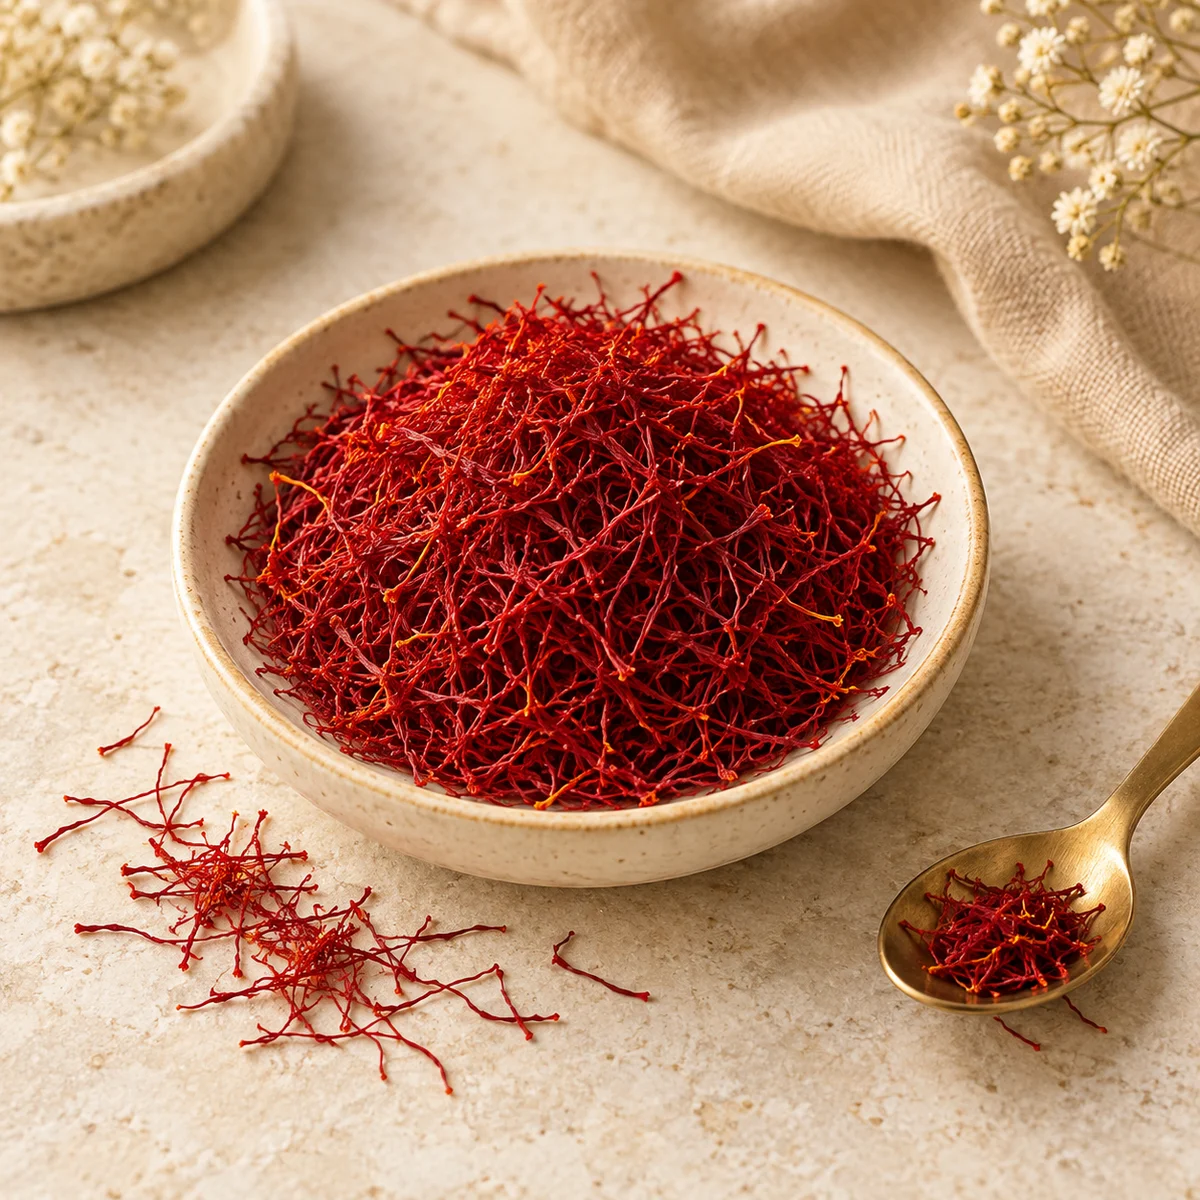
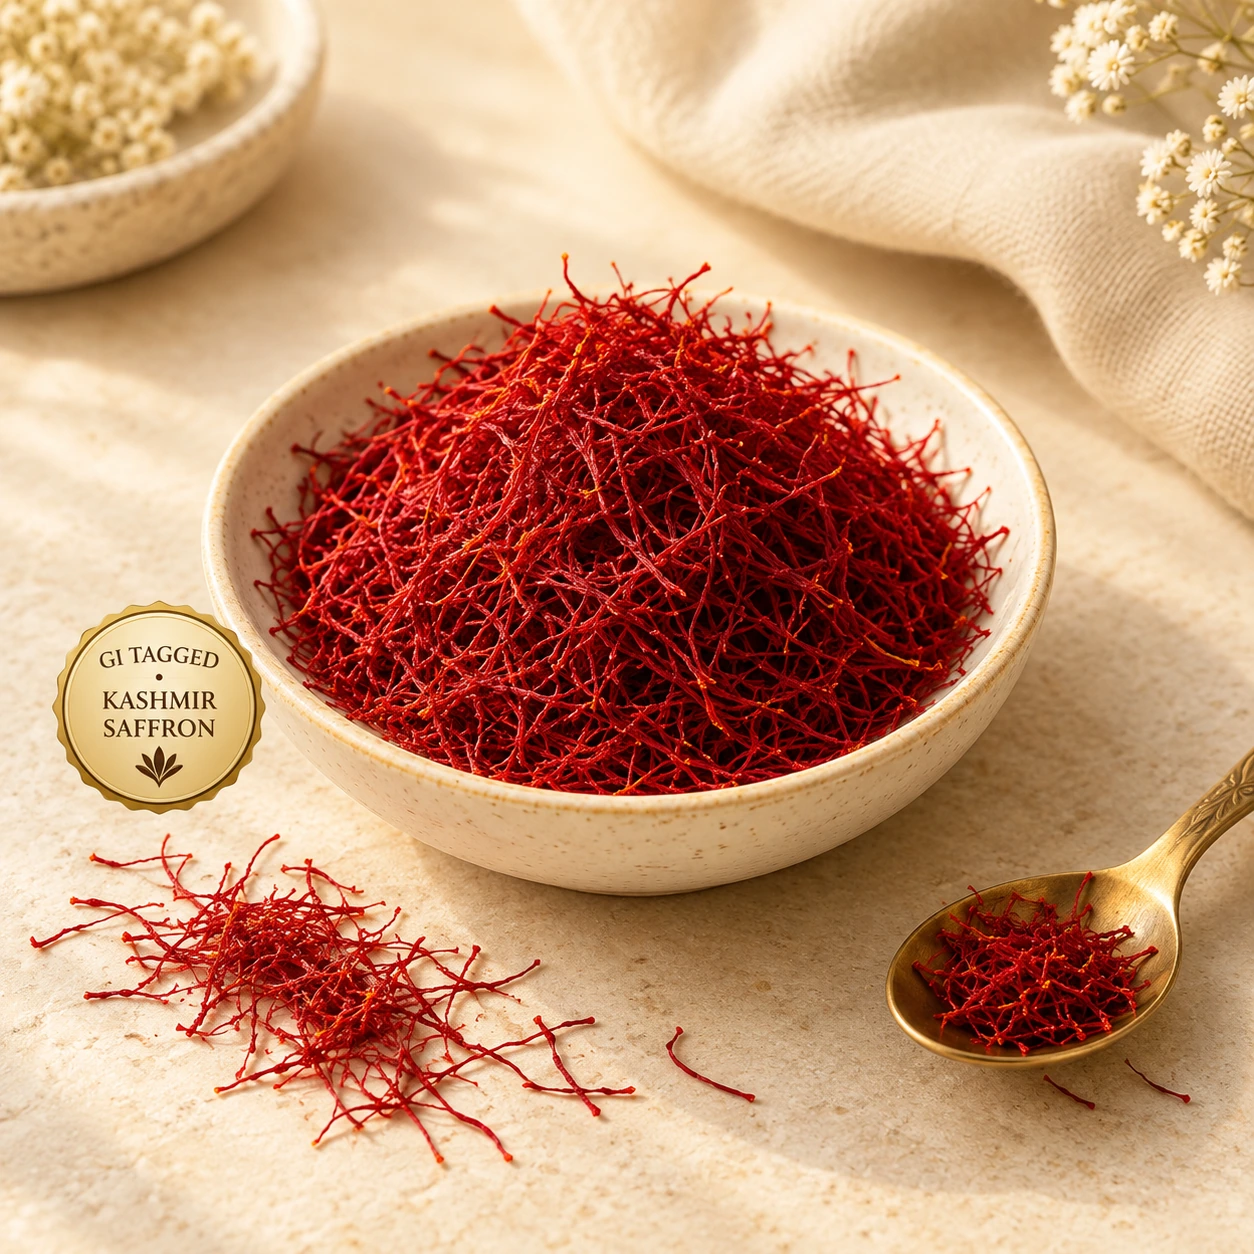
Live product search, product card highlights and footer link fixes
- Header search runs as you type (debounced), scrolls to the results and
  resets when the box is emptied; the search icon now submits.
- Product cards show the first certification when there is no "100%" claim,
  so every product gets a one-line promise; acacia honey's strongest claim
  moved first.
- Drop the "Direct Farmer Sourcing" trust point; the trust grid sizes its
  columns to the number of points.
- Footer: replace dead links with Quality Promise, Gift Hampers and a contact
  link for bulk gifting.
- New saffron and buffalo ghee product images.

diff --git a/frontend/src/components/layout/Header.tsx b/frontend/src/components/layout/Header.tsx
@@ -1,8 +1,8 @@
 "use client";
 
 import Link from "next/link";
-import { useRouter } from "next/navigation";
-import { useState, type FormEvent } from "react";
+import { usePathname, useRouter } from "next/navigation";
+import { useEffect, useState, type FormEvent } from "react";
 import {
   ChevronDown,
   Heart,
@@ -37,6 +37,7 @@ const NAV_LINKS = [
 export function Header() {
   const dispatch = useAppDispatch();
   const router = useRouter();
+  const pathname = usePathname();
   const cartCount = useAppSelector(selectCartCount);
   const wishlistCount = useAppSelector(selectWishlistCount);
   const deliveryPincode = useAppSelector(selectDeliveryPincode);
@@ -45,17 +46,50 @@ export function Header() {
   const activeSearch = useAppSelector(selectFilters).search;
   const [searchValue, setSearchValue] = useState(activeSearch);
   const [syncedSearch, setSyncedSearch] = useState(activeSearch);
-  // Mirror searches changed elsewhere (e.g. "Clear search" on the home grid) into the input.
+  // Mirror searches changed elsewhere (e.g. "Clear search" on the home grid) into the input. Skipped
+  // when the input already matches, so the live search below never eats a space mid-typing.
   if (activeSearch !== syncedSearch) {
     setSyncedSearch(activeSearch);
-    setSearchValue(activeSearch);
+    if (searchValue.trim() !== activeSearch) setSearchValue(activeSearch);
   }
   const [isMenuOpen, setMenuOpen] = useState(false);
 
-  const handleSearch = (event: FormEvent) => {
+  // Bring the results grid into view. Already on home: scroll there (a same-hash push wouldn't), unless
+  // the grid is already on screen, so typing doesn't keep yanking the page. From any other page, go home;
+  // AllProducts scrolls itself once it mounts (see its effect).
+  const showResults = (force: boolean) => {
+    if (pathname !== "/") {
+      router.push("/#products");
+      return;
+    }
+    const section = document.getElementById("products");
+    if (!section) return;
+    const { top, bottom } = section.getBoundingClientRect();
+    if (force || top > window.innerHeight * 0.5 || bottom < 0) section.scrollIntoView({ behavior: "smooth", block: "start" });
+  };
+
+  // Live search: run the query once typing pauses. Emptying the box (backspace or the input's own
+  // clear button) brings the full collection back.
+  useEffect(() => {
+    const query = searchValue.trim();
+    if (query === activeSearch) return;
+    const timer = setTimeout(() => {
+      dispatch(setSearch(query));
+      if (query) showResults(false);
+    }, 300);
+    return () => clearTimeout(timer);
+    // showResults only reads the current route; re-running on it would re-fire the search after navigating.
+    // eslint-disable-next-line react-hooks/exhaustive-deps
+  }, [searchValue, activeSearch, dispatch]);
+
+  // Enter or the search icon: search right away and close the on-screen keyboard so results aren't hidden.
+  const handleSearch = (event: FormEvent<HTMLFormElement>) => {
     event.preventDefault();
-    dispatch(setSearch(searchValue.trim()));
-    router.push("/#products");
+    const query = searchValue.trim();
+    if (!query) return;
+    dispatch(setSearch(query));
+    (event.currentTarget.querySelector("input") as HTMLInputElement | null)?.blur();
+    showResults(true);
   };
 
   return (
@@ -109,7 +143,9 @@ export function Header() {
         <Container className="pb-3">
           <form onSubmit={handleSearch}>
             <div className="flex items-center gap-2 rounded-xl bg-white px-4 py-2.5 shadow-sm">
-              <Search size={16} className="shrink-0 text-brand-ink/40" aria-hidden="true" />
+              <button type="submit" aria-label="Search" className="shrink-0 text-brand-ink/40 hover:text-brand-forest cursor-pointer">
+                <Search size={16} aria-hidden="true" />
+              </button>
               <input
                 type="search"
                 value={searchValue}
@@ -244,7 +280,9 @@ export function Header() {
             <div className="flex min-w-0 items-center justify-end gap-2 xl:gap-4">
               <form onSubmit={handleSearch} className="min-w-0 max-w-sm flex-1">
                 <div className="flex items-center gap-2 rounded-md border border-brand-sand-dark bg-brand-sand px-4 py-2">
-                  <Search size={16} className="shrink-0 text-brand-ink/50" aria-hidden="true" />
+                  <button type="submit" aria-label="Search" className="shrink-0 text-brand-ink/50 hover:text-brand-forest cursor-pointer">
+                    <Search size={16} aria-hidden="true" />
+                  </button>
                   <input
                     type="search"
                     value={searchValue}

diff --git a/frontend/src/components/home/AllProducts.tsx b/frontend/src/components/home/AllProducts.tsx
@@ -1,5 +1,6 @@
 "use client";
 
+import { useEffect, useRef } from "react";
 import { X } from "lucide-react";
 import type { Product } from "@/types/product";
 import { useAppDispatch, useAppSelector } from "@/lib/redux/hooks";
@@ -26,8 +27,19 @@ export function AllProducts({ products }: { products: Product[] }) {
   );
   const results = isSearching ? data?.items : products;
 
+  // A search submitted from another page lands on "/#products", but this section mounts only after
+  // the home data loads, so the browser's own hash jump misses it. Scroll here once it exists.
+  const sectionRef = useRef<HTMLElement>(null);
+  useEffect(() => {
+    if (search && window.location.hash === "#products") {
+      sectionRef.current?.scrollIntoView({ behavior: "smooth", block: "start" });
+    }
+    // Only on mount: searches made while this section is on screen are scrolled by the header.
+    // eslint-disable-next-line react-hooks/exhaustive-deps
+  }, []);
+
   return (
-    <section id="products" tabIndex={-1} className="scroll-mt-52 py-10 sm:py-16">
+    <section ref={sectionRef} id="products" tabIndex={-1} className="scroll-mt-52 py-10 sm:py-16">
       <Container>
         {isSearching ? (
           <div className="flex flex-wrap items-end justify-between gap-3">

diff --git a/frontend/src/components/home/TrustSection.tsx b/frontend/src/components/home/TrustSection.tsx
@@ -8,11 +8,15 @@ export function TrustSection({ points }: { points: HomeHighlight[] }) {
     <section id="quality" className="scroll-mt-52 py-12 sm:py-20">
       <Container>
         <SectionHeading eyebrow="Why Suvarna7" title="Goodness begins at the source." />
-        <div className="mt-10 grid grid-cols-1 gap-8 sm:grid-cols-2 lg:grid-cols-4">
+        <div
+          className={`mt-10 grid grid-cols-1 gap-8 md:gap-10 ${
+            points.length % 3 === 0 ? "md:grid-cols-3" : points.length >= 4 ? "sm:grid-cols-2 lg:grid-cols-4" : "sm:grid-cols-2"
+          }`}
+        >
           {points.map(({ title, description }, index) => (
             <div key={title} className="border-t border-brand-walnut/40 pt-5">
               <span className="text-xs text-brand-walnut-dark">0{index + 1}</span>
-              <h3 className="mt-5 font-serif text-xl text-brand-forest">{title}</h3>
+              <h3 className="mt-3 font-serif text-xl sm:text-2xl text-brand-forest">{title}</h3>
               {description && <p className="mt-3 text-sm leading-relaxed text-brand-ink/60">{description}</p>}
             </div>
           ))}

diff --git a/frontend/src/components/product/ProductCard.tsx b/frontend/src/components/product/ProductCard.tsx
@@ -45,7 +45,9 @@ export function ProductCard({ product }: { product: Product }) {
 
   const toggleHeart = () => dispatch(toggleWishlist(product.slug));
 
-  const purityLabel = product.certifications.find((cert) => cert.label.startsWith("100%"))?.label;
+  // One-line promise under the name: a "100% …" purity claim when the product has one, otherwise its
+  // first certification (admins order these so the strongest claim comes first).
+  const purityLabel = (product.certifications.find((cert) => cert.label.startsWith("100%")) ?? product.certifications[0])?.label;
 
   return (
     <div className="product-card flex flex-col overflow-hidden rounded-md border border-brand-sand-dark bg-white">

diff --git a/frontend/src/components/layout/Footer.tsx b/frontend/src/components/layout/Footer.tsx
@@ -30,9 +30,10 @@ const FOOTER_COLUMNS = [
     title: "Suvarna7",
     links: [
       { href: "/our-story", label: "Our Story" },
-      { href: "/", label: "Farm Partners" },
-      { href: "/", label: "Quality Promise" },
-      { href: "/", label: "Bulk & Corporate Gifting" },
+      { href: "/#quality", label: "Quality Promise" },
+      { href: "/#hampers", label: "Gift Hampers" },
+      // The contact page's WhatsApp form covers gifting and bulk enquiries.
+      { href: "/contact", label: "Bulk & Corporate Gifting" },
     ],
   },
 ];

diff --git a/backend/seeds/data/catalog.js b/backend/seeds/data/catalog.js
@@ -100,8 +100,8 @@ export const PRODUCTS = [
         image: "/images/products/kashmir-acacia-honey.png",
         is_bestseller: false,
         certifications: [
-            { label: "Sourced from the Kashmir hills", description: null },
             { label: "Single-flower acacia honey", description: null },
+            { label: "Sourced from the Kashmir hills", description: null },
             { label: "Light, clear and naturally slow to crystallise", description: null },
             LAB_TESTED,
         ],

diff --git a/backend/seeds/data/store-data.js b/backend/seeds/data/store-data.js
@@ -48,12 +48,6 @@ export const HIGHLIGHTS = [
 
     {
         placement: "trust_point",
-        icon: "leaf",
-        title: "Direct Farmer Sourcing",
-        description: "We buy directly from orchard families in Kashmir, Afghanistan, Iran and California — no middlemen.",
-    },
-    {
-        placement: "trust_point",
         icon: "badge-check",
         title: "Lab-Tested Quality",
         description: "Every batch is graded for oil content, moisture and purity before it reaches your pouch.",

diff --git a/frontend/src/lib/data/home.mock.ts b/frontend/src/lib/data/home.mock.ts
@@ -43,11 +43,6 @@ export const MOCK_TRUST_BADGES: HomeHighlight[] = [
 
 export const MOCK_TRUST_POINTS: HomeHighlight[] = [
   {
-    icon: "leaf",
-    title: "Direct Farmer Sourcing",
-    description: "We buy directly from orchard families in Kashmir, Afghanistan, Iran and California — no middlemen.",
-  },
-  {
     icon: "badge-check",
     title: "Lab-Tested Quality",
     description: "Every batch is graded for oil content, moisture and purity before it reaches your pouch.",
